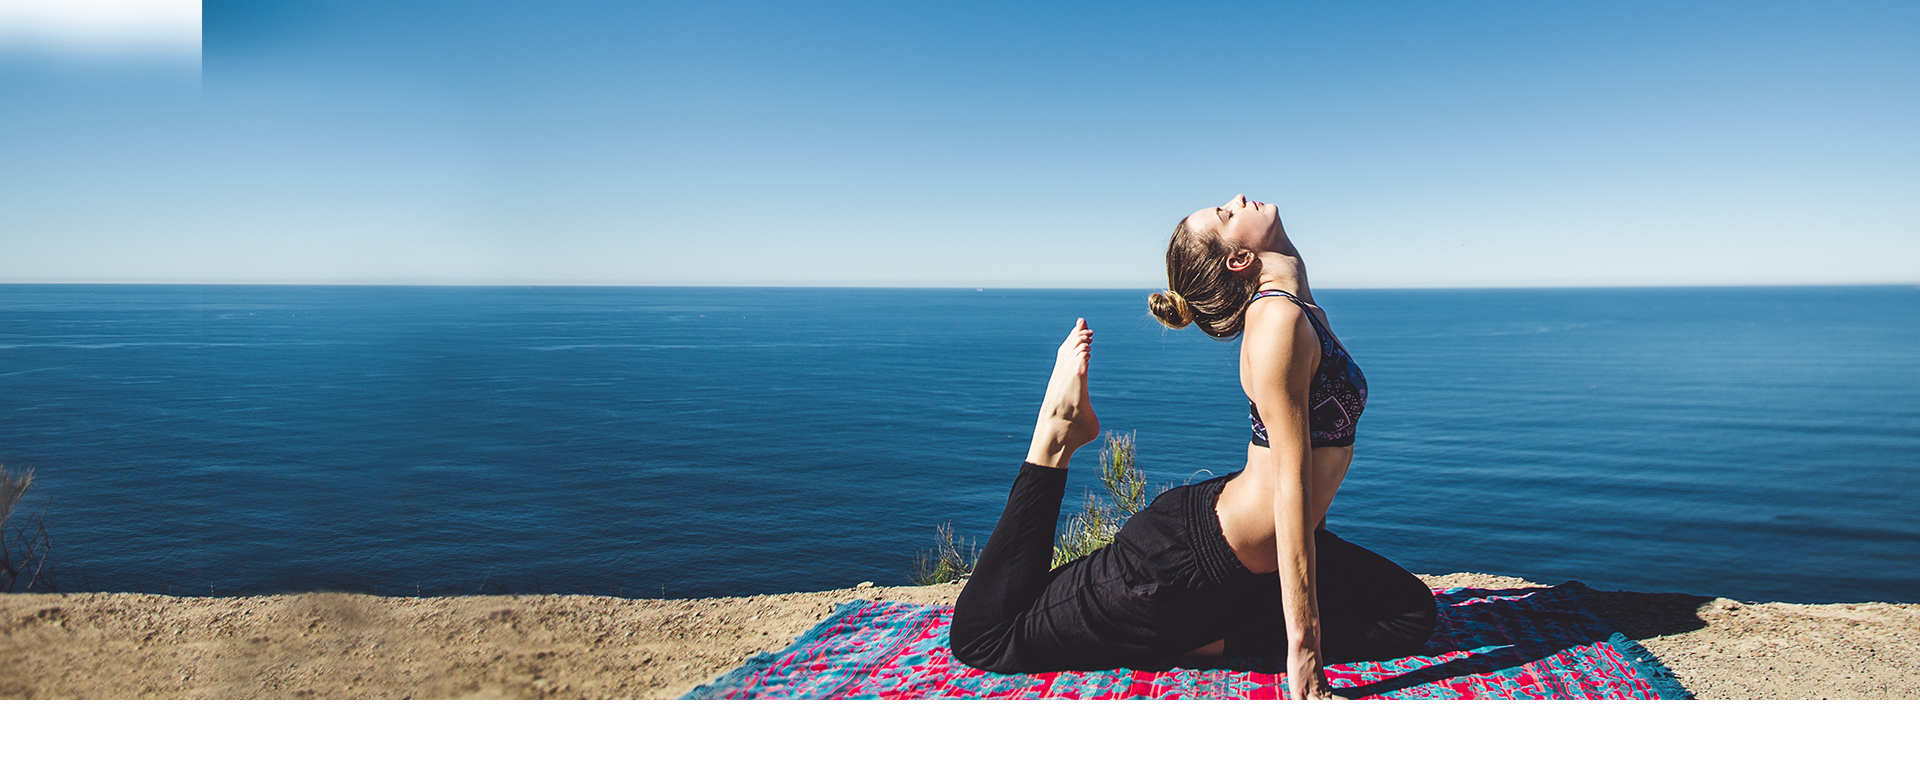
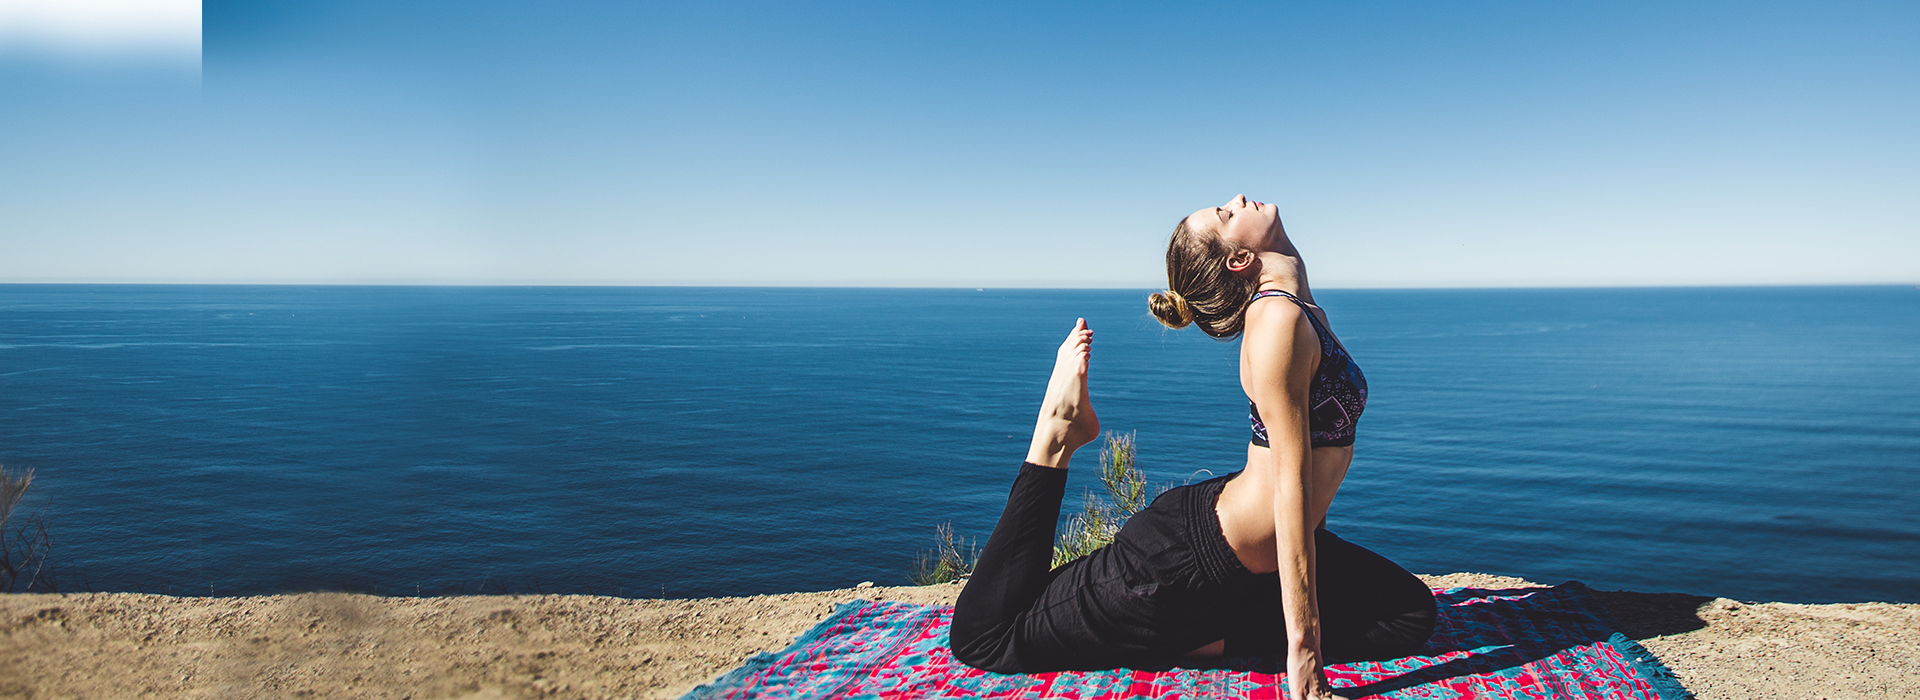
crop the img to achieve normal layout, implement color filter.

diff --git a/css/style.min.css b/css/style.min.css
@@ -1,1 +1,1 @@
-body{margin:0}dir,menu,ul{display:block;list-style-type:disc;-webkit-margin-before:0;-webkit-margin-after:0;-webkit-margin-start:0;-webkit-margin-end:0;-webkit-padding-start:0}input{-webkit-appearance:textfield;background-color:#fff;-webkit-rtl-ordering:logical;cursor:text;padding:0;border:none;border-color:initial;-o-border-image:initial;border-image:initial}input:focus{outline-offset:0;outline:-webkit-focus-ring-color none 0}select:focus{border:none;outline:-webkit-focus-ring-color none 0}button{border:none}button:focus{outline:-webkit-focus-ring-color none 0}.header{background-color:#fff;-webkit-box-shadow:0 3px 7px 0 rgba(0,0,0,.15);box-shadow:0 3px 7px 0 rgba(0,0,0,.15);position:absolute;left:0;top:0;width:100%;height:100px;z-index:315}.logo{position:absolute;left:47%;top:15px;line-height:1.2;font-size:24px;z-index:324}.logo-name{font-size:14px;font-family:"Champagne & Limousines";color:#5363db;font-weight:700;line-height:1.2;text-align:left;-moz-transform:matrix(1.71411,0,0,1.71411,0,0);-webkit-transform:matrix(1.71411,0,0,1.71411,0,0);-ms-transform:matrix(1.71411,0,0,1.71411,0,0);position:absolute;left:48%;top:66.6px;z-index:322}.main-menu-left{font-size:14px;font-family:"Open Sans Semibold";color:#5363db;font-weight:700;text-align:center;position:absolute;left:20%;top:40%;list-style:none;z-index:318}.main-menu-left li{display:inline-block;padding-right:20px}.main-menu-left a{text-decoration:none}.main-menu-right{font-size:14px;font-family:"Open Sans Semibold";color:#555;font-weight:700;text-align:center;position:absolute;right:23%;top:40%;list-style:none;z-index:317}.main-menu-right li{display:inline-block;padding-right:20px}.main-menu-right a{text-decoration:none}.slider{background-color:#5363db;position:relative;width:100%;height:auto;opacity:.8;z-index:282}.slider img{position:relative;width:100%;height:auto;z-index:281}.s-text{font-family:"Open Sans";font-size:30px;color:#fff;position:absolute;top:185px;right:340px;z-index:283}.s-text-1{font-family:"Freestyle Script";font-size:25px;color:#fff;position:absolute;top:305px;right:470px;z-index:283}.rounded-rectangle{border-radius:20px;background-color:#fff;-webkit-box-shadow:0 8px 10px 0 rgba(0,0,0,.15);box-shadow:0 8px 10px 0 rgba(0,0,0,.15);position:absolute;left:440px;top:140px;width:210px;height:285px;-webkit-box-sizing:border-box;box-sizing:border-box;padding:25px 10px 20px 15px;z-index:288}.rounded-rectangle select{width:175px;border-style:none}.block-head{font-family:"Open Sans Semibold";font-size:20px;color:#5363db}.round-input{border-radius:8px;background-color:#f2f2f2;margin-top:15px;padding:10px 0 10px 5px;color:#888}.round-input::-webkit-input-placeholder{color:#888;opacity:1}.round-input:-ms-input-placeholder{color:#888;opacity:1}.round-input::-ms-input-placeholder{color:#888;opacity:1}.round-input::placeholder{color:#888;opacity:1}.block-submit{border-radius:8px;background-color:#5b6ceb;-webkit-box-shadow:2.121px 2.121px 5px 0 rgba(0,0,0,.15);box-shadow:2.121px 2.121px 5px 0 rgba(0,0,0,.15);text-align:center;color:#fff;margin:20px 10px;padding:10px 0;width:100px;float:right}
+body{margin:0}dir,menu,ul{display:block;list-style-type:disc;-webkit-margin-before:0;-webkit-margin-after:0;-webkit-margin-start:0;-webkit-margin-end:0;-webkit-padding-start:0}input{-webkit-appearance:textfield;background-color:#fff;-webkit-rtl-ordering:logical;cursor:text;padding:0;border:none;border-color:initial;-o-border-image:initial;border-image:initial}input:focus{outline-offset:0;outline:-webkit-focus-ring-color none 0}select:focus{border:none;outline:-webkit-focus-ring-color none 0}button{border:none}button:focus{outline:-webkit-focus-ring-color none 0}.header{background-color:#fff;-webkit-box-shadow:0 3px 7px 0 rgba(0,0,0,.15);box-shadow:0 3px 7px 0 rgba(0,0,0,.15);position:absolute;left:0;top:0;width:100%;height:100px;z-index:315}.logo{position:absolute;left:47%;top:15px;line-height:1.2;font-size:24px;z-index:324}.logo-name{font-size:14px;font-family:"Champagne & Limousines";color:#5363db;font-weight:700;line-height:1.2;text-align:left;-moz-transform:matrix(1.71411,0,0,1.71411,0,0);-webkit-transform:matrix(1.71411,0,0,1.71411,0,0);-ms-transform:matrix(1.71411,0,0,1.71411,0,0);position:absolute;left:48%;top:66.6px;z-index:322}.main-menu-left{font-size:14px;font-family:"Open Sans Semibold";color:#5363db;font-weight:700;text-align:center;position:absolute;left:20%;top:40%;list-style:none;z-index:318}.main-menu-left li{display:inline-block;padding-right:20px}.main-menu-left a{text-decoration:none}.main-menu-right{font-size:14px;font-family:"Open Sans Semibold";color:#555;font-weight:700;text-align:center;position:absolute;right:23%;top:40%;list-style:none;z-index:317}.main-menu-right li{display:inline-block;padding-right:20px}.main-menu-right a{text-decoration:none}.slider{position:relative;width:100%;height:auto}.slider::after{content:"";position:absolute;top:0;left:0;right:0;bottom:0;background:#5363db;opacity:.8}.slider img{display:block;width:100%;height:auto;z-index:281}.s-text{font-family:"Open Sans";font-size:30px;color:#fff;position:absolute;top:185px;right:340px;z-index:283}.s-text-1{font-family:"Freestyle Script";font-size:25px;color:#fff;position:absolute;top:305px;right:470px;z-index:283}.rounded-rectangle{border-radius:20px;background-color:#fff;-webkit-box-shadow:0 8px 10px 0 rgba(0,0,0,.15);box-shadow:0 8px 10px 0 rgba(0,0,0,.15);position:absolute;left:440px;top:155px;width:210px;height:285px;-webkit-box-sizing:border-box;box-sizing:border-box;padding:25px 10px 20px 15px;z-index:288}.rounded-rectangle select{width:175px;border-style:none}.block-head{font-family:"Open Sans Semibold";font-size:20px;color:#5363db}.round-input{border-radius:8px;background-color:#f2f2f2;margin-top:15px;padding:10px 0 10px 5px;color:#888}.round-input::-webkit-input-placeholder{color:#888;opacity:1}.round-input:-ms-input-placeholder{color:#888;opacity:1}.round-input::-ms-input-placeholder{color:#888;opacity:1}.round-input::placeholder{color:#888;opacity:1}.block-submit{border-radius:8px;background-color:#5b6ceb;-webkit-box-shadow:2.121px 2.121px 5px 0 rgba(0,0,0,.15);box-shadow:2.121px 2.121px 5px 0 rgba(0,0,0,.15);text-align:center;color:#fff;margin:20px 10px;padding:10px 0;width:100px;float:right}

diff --git a/css/style.css b/css/style.css
@@ -113,14 +113,20 @@ button {
     text-decoration: none; }
 
 .slider {
-  background-color: #5363db;
   position: relative;
   width: 100%;
-  height: auto;
-  opacity: 0.8;
-  z-index: 282; }
+  height: auto; }
+  .slider::after {
+    content: "";
+    position: absolute;
+    top: 0;
+    left: 0;
+    right: 0;
+    bottom: 0;
+    background: #5363db;
+    opacity: 0.8; }
   .slider img {
-    position: relative;
+    display: block;
     width: 100%;
     height: auto;
     z-index: 281; }
@@ -150,7 +156,7 @@ button {
   box-shadow: 0px 8px 10px 0px rgba(0, 0, 0, 0.15);
   position: absolute;
   left: 440px;
-  top: 140px;
+  top: 155px;
   width: 210px;
   height: 285px;
   -webkit-box-sizing: border-box;

diff --git a/src/style.scss b/src/style.scss
@@ -138,14 +138,23 @@ button {
 }
 
 .slider {
-  background-color: rgb(83, 99, 219);
   position: relative;
   width: 100%;
   height: auto;
-  opacity: 0.8;
-  z-index: 282;
+
+  &::after {
+    content:"";
+    position: absolute;
+    top:0;
+    left:0;
+    right:0;
+    bottom:0;
+    background: rgb(83, 99, 219);
+    opacity: 0.8;
+    //z-index: 282;
+  }
   img {
-    position: relative;
+    display: block;
     width: 100%;
     height: auto;
     z-index: 281;
@@ -180,7 +189,7 @@ button {
   box-shadow: 0px 8px 10px 0px rgba(0, 0, 0, 0.15);
   position: absolute;
   left: 440px;
-  top: 140px;
+  top: 155px;
   width: 210px;
   height: 285px;
   box-sizing: border-box;
